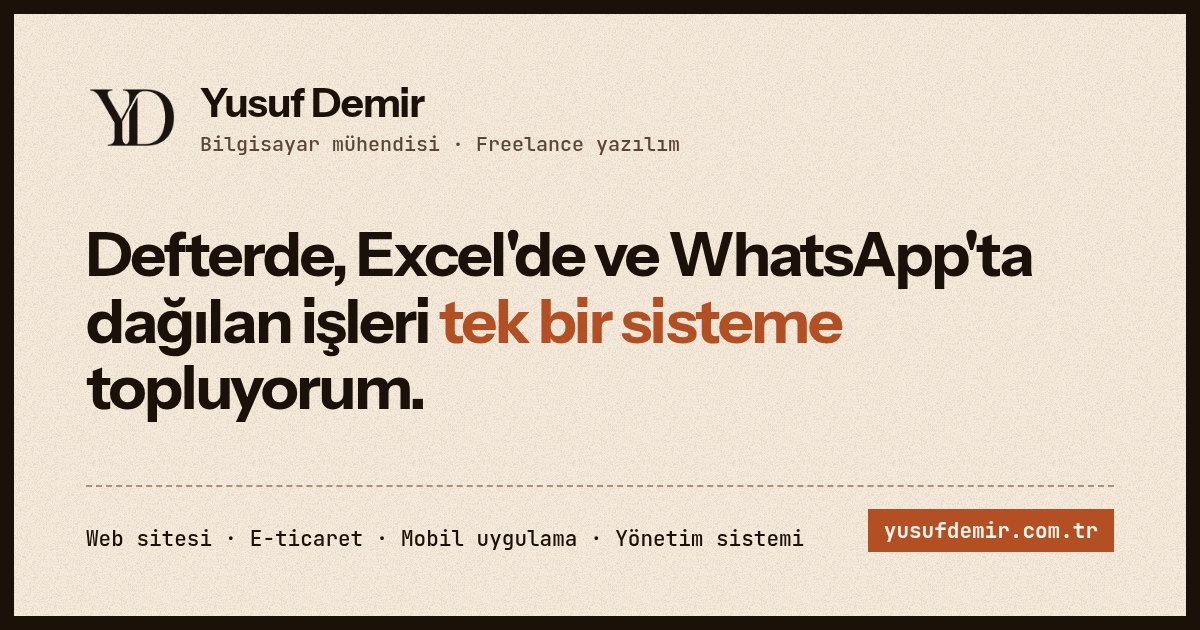
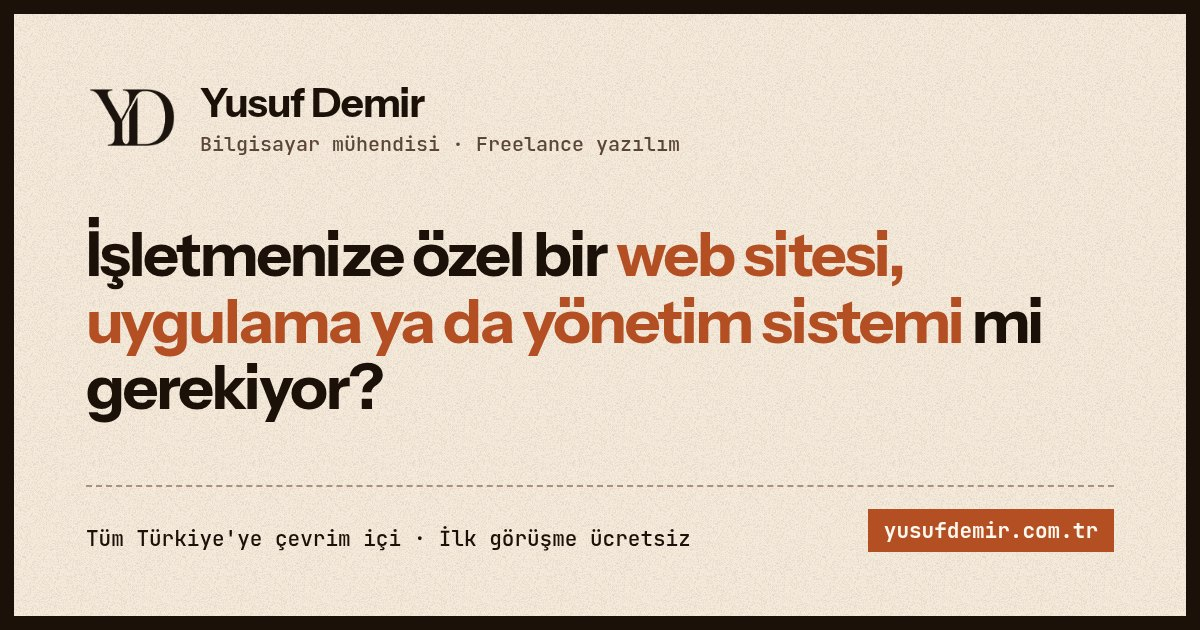
copy: ana sayfa başlığı soru biçiminde ve sektör bağımsız; paylaşım görseli yenilendi

Changed region(s): [[0.0617, 0.3317, 0.8942, 0.6937], [0.0617, 0.8444, 0.4625, 0.8746], [0.4933, 0.8444, 0.6783, 0.8746]]

diff --git a/index.html b/index.html
@@ -15,10 +15,10 @@
   <meta property="og:description" content="Freelance bilgisayar mühendisi: kurumsal web sitesi, e-ticaret, mobil uygulama ve işletmeye özel yönetim sistemi. Tüm Türkiye&#x27;ye çevrim içi hizmet." />
   <meta property="og:url" content="https://yusufdemir.com.tr/" />
   <meta property="og:site_name" content="Yusuf Demir" />
-  <meta property="og:image" content="https://yusufdemir.com.tr/assets/images/og-kapak.jpg" />
+  <meta property="og:image" content="https://yusufdemir.com.tr/assets/images/og-kapak.jpg?v=0cf6f57a" />
   <meta property="og:image:width" content="1200" />
   <meta property="og:image:height" content="630" />
-  <meta property="og:image:alt" content="Yusuf Demir: defterde, Excel'de ve WhatsApp'ta dağılan işleri tek bir sisteme topluyorum." />
+  <meta property="og:image:alt" content="Yusuf Demir: İşletmenize özel bir web sitesi, uygulama ya da yönetim sistemi mi gerekiyor?" />
   <meta name="twitter:card" content="summary_large_image" />
   <meta name="geo.region" content="TR-41" />
   <meta name="geo.placename" content="İzmit, Kocaeli" />
@@ -55,8 +55,8 @@
   <main id="icerik">
     <section class="wrap hero">
       <div>
-        <h1>Defterde, Excel'de ve WhatsApp'ta dağılan işleri <em>tek bir sisteme</em> topluyorum.</h1>
-        <p class="hero-lead">Ben Yusuf Demir, bilgisayar mühendisiyim. İşletmelerin isteklerine göre modern web siteleri, mobil uygulamalar ve işe özel yönetim sistemleri yapıyorum. Teklifi veren de, kodu yazan da, sonra destek veren de benim.</p>
+        <h1>İşletmenize özel bir <em>web sitesi, uygulama ya da yönetim sistemi</em> mi gerekiyor?</h1>
+        <p class="hero-lead">Ben Yusuf Demir, bilgisayar mühendisiyim. İhtiyacınızı birlikte netleştirir, işinize uygun ve kullanımı kolay bir çözüm geliştiririm. Planlamadan yayına, yayından sonraki desteğe kadar tek bir muhatapla çalışırsınız.</p>
         <div class="hero-ctas">
           <a href="https://wa.me/905511345360?text=Merhaba%20Yusuf%20Bey%2C%20bir%20proje%20hakk%C4%B1nda%20g%C3%B6r%C3%BC%C5%9Fmek%20istiyorum." target="_blank" rel="noopener" class="btn btn-primary">WhatsApp'tan yazın</a>
           <a href="/iletisim/" class="btn btn-secondary">Ücretsiz ön görüşme</a>

diff --git a/site-kontrolu/index.html b/site-kontrolu/index.html
@@ -15,10 +15,10 @@
   <meta property="og:description" content="Sitenizin bağlantısını gönderin; mobil görünüm, hız, çalışmayan düğmeler, SSL ve Google görünürlüğü için ücretsiz ve bağlayıcı olmayan bir değerlendirme alın." />
   <meta property="og:url" content="https://yusufdemir.com.tr/site-kontrolu/" />
   <meta property="og:site_name" content="Yusuf Demir" />
-  <meta property="og:image" content="https://yusufdemir.com.tr/assets/images/og-kapak.jpg" />
+  <meta property="og:image" content="https://yusufdemir.com.tr/assets/images/og-kapak.jpg?v=0cf6f57a" />
   <meta property="og:image:width" content="1200" />
   <meta property="og:image:height" content="630" />
-  <meta property="og:image:alt" content="Yusuf Demir: defterde, Excel'de ve WhatsApp'ta dağılan işleri tek bir sisteme topluyorum." />
+  <meta property="og:image:alt" content="Yusuf Demir: İşletmenize özel bir web sitesi, uygulama ya da yönetim sistemi mi gerekiyor?" />
   <meta name="twitter:card" content="summary_large_image" />
   <meta name="geo.region" content="TR-41" />
   <meta name="geo.placename" content="İzmit, Kocaeli" />

diff --git a/hizmetler/kurumsal-web-sitesi/index.html b/hizmetler/kurumsal-web-sitesi/index.html
@@ -15,10 +15,10 @@
   <meta property="og:description" content="İşletmenizi doğru anlatan, telefonda hızlı açılan ve Google&#x27;da bulunan kurumsal web sitesi. Tasarım, yayına alma ve Search Console kaydı dahil." />
   <meta property="og:url" content="https://yusufdemir.com.tr/hizmetler/kurumsal-web-sitesi/" />
   <meta property="og:site_name" content="Yusuf Demir" />
-  <meta property="og:image" content="https://yusufdemir.com.tr/assets/images/og-kapak.jpg" />
+  <meta property="og:image" content="https://yusufdemir.com.tr/assets/images/og-kapak.jpg?v=0cf6f57a" />
   <meta property="og:image:width" content="1200" />
   <meta property="og:image:height" content="630" />
-  <meta property="og:image:alt" content="Yusuf Demir: defterde, Excel'de ve WhatsApp'ta dağılan işleri tek bir sisteme topluyorum." />
+  <meta property="og:image:alt" content="Yusuf Demir: İşletmenize özel bir web sitesi, uygulama ya da yönetim sistemi mi gerekiyor?" />
   <meta name="twitter:card" content="summary_large_image" />
   <meta name="geo.region" content="TR-41" />
   <meta name="geo.placename" content="İzmit, Kocaeli" />

diff --git a/iletisim/index.html b/iletisim/index.html
@@ -15,10 +15,10 @@
   <meta property="og:description" content="Yusuf Demir ile 15 dakikalık ücretsiz ön görüşme. Telefon ve WhatsApp: +90 551 134 53 60. Türkiye&#x27;nin her yerine çevrim içi; Marmara&#x27;da istenirse yüz yüze." />
   <meta property="og:url" content="https://yusufdemir.com.tr/iletisim/" />
   <meta property="og:site_name" content="Yusuf Demir" />
-  <meta property="og:image" content="https://yusufdemir.com.tr/assets/images/og-kapak.jpg" />
+  <meta property="og:image" content="https://yusufdemir.com.tr/assets/images/og-kapak.jpg?v=0cf6f57a" />
   <meta property="og:image:width" content="1200" />
   <meta property="og:image:height" content="630" />
-  <meta property="og:image:alt" content="Yusuf Demir: defterde, Excel'de ve WhatsApp'ta dağılan işleri tek bir sisteme topluyorum." />
+  <meta property="og:image:alt" content="Yusuf Demir: İşletmenize özel bir web sitesi, uygulama ya da yönetim sistemi mi gerekiyor?" />
   <meta name="twitter:card" content="summary_large_image" />
   <meta name="geo.region" content="TR-41" />
   <meta name="geo.placename" content="İzmit, Kocaeli" />

diff --git a/hizmetler/index.html b/hizmetler/index.html
@@ -15,10 +15,10 @@
   <meta property="og:description" content="Kurumsal web sitesi, e-ticaret, mobil uygulama, yönetim sistemi, süreç otomasyonu ve site onarımı. Türkiye&#x27;nin her yerine çevrim içi, Marmara&#x27;da yüz yüze." />
   <meta property="og:url" content="https://yusufdemir.com.tr/hizmetler/" />
   <meta property="og:site_name" content="Yusuf Demir" />
-  <meta property="og:image" content="https://yusufdemir.com.tr/assets/images/og-kapak.jpg" />
+  <meta property="og:image" content="https://yusufdemir.com.tr/assets/images/og-kapak.jpg?v=0cf6f57a" />
   <meta property="og:image:width" content="1200" />
   <meta property="og:image:height" content="630" />
-  <meta property="og:image:alt" content="Yusuf Demir: defterde, Excel'de ve WhatsApp'ta dağılan işleri tek bir sisteme topluyorum." />
+  <meta property="og:image:alt" content="Yusuf Demir: İşletmenize özel bir web sitesi, uygulama ya da yönetim sistemi mi gerekiyor?" />
   <meta name="twitter:card" content="summary_large_image" />
   <meta name="geo.region" content="TR-41" />
   <meta name="geo.placename" content="İzmit, Kocaeli" />

diff --git a/hizmetler/e-ticaret/index.html b/hizmetler/e-ticaret/index.html
@@ -15,10 +15,10 @@
   <meta property="og:description" content="Kategori, filtre, ürün sayfası, sepet ve sipariş adımıyla işletmenize özel e-ticaret sitesi. Online ödeme ya da sipariş talebiyle çalışabilir." />
   <meta property="og:url" content="https://yusufdemir.com.tr/hizmetler/e-ticaret/" />
   <meta property="og:site_name" content="Yusuf Demir" />
-  <meta property="og:image" content="https://yusufdemir.com.tr/assets/images/og-kapak.jpg" />
+  <meta property="og:image" content="https://yusufdemir.com.tr/assets/images/og-kapak.jpg?v=0cf6f57a" />
   <meta property="og:image:width" content="1200" />
   <meta property="og:image:height" content="630" />
-  <meta property="og:image:alt" content="Yusuf Demir: defterde, Excel'de ve WhatsApp'ta dağılan işleri tek bir sisteme topluyorum." />
+  <meta property="og:image:alt" content="Yusuf Demir: İşletmenize özel bir web sitesi, uygulama ya da yönetim sistemi mi gerekiyor?" />
   <meta name="twitter:card" content="summary_large_image" />
   <meta name="geo.region" content="TR-41" />
   <meta name="geo.placename" content="İzmit, Kocaeli" />

diff --git a/sektorler/uretici-ve-imalat/index.html b/sektorler/uretici-ve-imalat/index.html
@@ -15,10 +15,10 @@
   <meta property="og:description" content="Üretici ve imalatçılar için sipariş, kapora, üretim sırası, stok ve sevkiyatı tek yerden takip eden sistem ve ürün kataloğu sitesi." />
   <meta property="og:url" content="https://yusufdemir.com.tr/sektorler/uretici-ve-imalat/" />
   <meta property="og:site_name" content="Yusuf Demir" />
-  <meta property="og:image" content="https://yusufdemir.com.tr/assets/images/og-kapak.jpg" />
+  <meta property="og:image" content="https://yusufdemir.com.tr/assets/images/og-kapak.jpg?v=0cf6f57a" />
   <meta property="og:image:width" content="1200" />
   <meta property="og:image:height" content="630" />
-  <meta property="og:image:alt" content="Yusuf Demir: defterde, Excel'de ve WhatsApp'ta dağılan işleri tek bir sisteme topluyorum." />
+  <meta property="og:image:alt" content="Yusuf Demir: İşletmenize özel bir web sitesi, uygulama ya da yönetim sistemi mi gerekiyor?" />
   <meta name="twitter:card" content="summary_large_image" />
   <meta name="geo.region" content="TR-41" />
   <meta name="geo.placename" content="İzmit, Kocaeli" />

diff --git a/sektorler/magaza-ve-markalar/index.html b/sektorler/magaza-ve-markalar/index.html
@@ -15,10 +15,10 @@
   <meta property="og:description" content="Mağazalar ve markalar için kendi e-ticaret sitesi ve App Store ile Google Play&#x27;de yayınlanan mobil alışveriş uygulaması." />
   <meta property="og:url" content="https://yusufdemir.com.tr/sektorler/magaza-ve-markalar/" />
   <meta property="og:site_name" content="Yusuf Demir" />
-  <meta property="og:image" content="https://yusufdemir.com.tr/assets/images/og-kapak.jpg" />
+  <meta property="og:image" content="https://yusufdemir.com.tr/assets/images/og-kapak.jpg?v=0cf6f57a" />
   <meta property="og:image:width" content="1200" />
   <meta property="og:image:height" content="630" />
-  <meta property="og:image:alt" content="Yusuf Demir: defterde, Excel'de ve WhatsApp'ta dağılan işleri tek bir sisteme topluyorum." />
+  <meta property="og:image:alt" content="Yusuf Demir: İşletmenize özel bir web sitesi, uygulama ya da yönetim sistemi mi gerekiyor?" />
   <meta name="twitter:card" content="summary_large_image" />
   <meta name="geo.region" content="TR-41" />
   <meta name="geo.placename" content="İzmit, Kocaeli" />

diff --git a/hizmetler/yonetim-sistemi/index.html b/hizmetler/yonetim-sistemi/index.html
@@ -15,10 +15,10 @@
   <meta property="og:description" content="Sipariş, stok, üretim, sevkiyat ve tahsilatı tek ekranda toplayan, yetkiye göre çalışan işletmeye özel ERP / CRM sistemi." />
   <meta property="og:url" content="https://yusufdemir.com.tr/hizmetler/yonetim-sistemi/" />
   <meta property="og:site_name" content="Yusuf Demir" />
-  <meta property="og:image" content="https://yusufdemir.com.tr/assets/images/og-kapak.jpg" />
+  <meta property="og:image" content="https://yusufdemir.com.tr/assets/images/og-kapak.jpg?v=0cf6f57a" />
   <meta property="og:image:width" content="1200" />
   <meta property="og:image:height" content="630" />
-  <meta property="og:image:alt" content="Yusuf Demir: defterde, Excel'de ve WhatsApp'ta dağılan işleri tek bir sisteme topluyorum." />
+  <meta property="og:image:alt" content="Yusuf Demir: İşletmenize özel bir web sitesi, uygulama ya da yönetim sistemi mi gerekiyor?" />
   <meta name="twitter:card" content="summary_large_image" />
   <meta name="geo.region" content="TR-41" />
   <meta name="geo.placename" content="İzmit, Kocaeli" />

diff --git a/cozumler/index.html b/cozumler/index.html
@@ -15,10 +15,10 @@
   <meta property="og:description" content="Telefonda yavaş açılan siteler, mobil uygulama eksikliği ve defterle Excel arasında kaybolan siparişler: üç yaygın sorun ve çözümleri." />
   <meta property="og:url" content="https://yusufdemir.com.tr/cozumler/" />
   <meta property="og:site_name" content="Yusuf Demir" />
-  <meta property="og:image" content="https://yusufdemir.com.tr/assets/images/og-kapak.jpg" />
+  <meta property="og:image" content="https://yusufdemir.com.tr/assets/images/og-kapak.jpg?v=0cf6f57a" />
   <meta property="og:image:width" content="1200" />
   <meta property="og:image:height" content="630" />
-  <meta property="og:image:alt" content="Yusuf Demir: defterde, Excel'de ve WhatsApp'ta dağılan işleri tek bir sisteme topluyorum." />
+  <meta property="og:image:alt" content="Yusuf Demir: İşletmenize özel bir web sitesi, uygulama ya da yönetim sistemi mi gerekiyor?" />
   <meta name="twitter:card" content="summary_large_image" />
   <meta name="geo.region" content="TR-41" />
   <meta name="geo.placename" content="İzmit, Kocaeli" />

diff --git a/projeler/index.html b/projeler/index.html
@@ -15,10 +15,10 @@
   <meta property="og:description" content="Kremi Beauty mobil alışveriş uygulaması, bir üreticinin imalat ve satış yönetim sistemi ve UBEI telefon aksesuarı e-ticaret sitesi." />
   <meta property="og:url" content="https://yusufdemir.com.tr/projeler/" />
   <meta property="og:site_name" content="Yusuf Demir" />
-  <meta property="og:image" content="https://yusufdemir.com.tr/assets/images/og-kapak.jpg" />
+  <meta property="og:image" content="https://yusufdemir.com.tr/assets/images/og-kapak.jpg?v=0cf6f57a" />
   <meta property="og:image:width" content="1200" />
   <meta property="og:image:height" content="630" />
-  <meta property="og:image:alt" content="Yusuf Demir: defterde, Excel'de ve WhatsApp'ta dağılan işleri tek bir sisteme topluyorum." />
+  <meta property="og:image:alt" content="Yusuf Demir: İşletmenize özel bir web sitesi, uygulama ya da yönetim sistemi mi gerekiyor?" />
   <meta name="twitter:card" content="summary_large_image" />
   <meta name="geo.region" content="TR-41" />
   <meta name="geo.placename" content="İzmit, Kocaeli" />

diff --git a/hizmetler/mobil-uygulama/index.html b/hizmetler/mobil-uygulama/index.html
@@ -15,10 +15,10 @@
   <meta property="og:description" content="Flutter ile tek kod tabanından iOS ve Android uygulaması. App Store ve Google Play başvurusu ve yayın süreci dahil." />
   <meta property="og:url" content="https://yusufdemir.com.tr/hizmetler/mobil-uygulama/" />
   <meta property="og:site_name" content="Yusuf Demir" />
-  <meta property="og:image" content="https://yusufdemir.com.tr/assets/images/og-kapak.jpg" />
+  <meta property="og:image" content="https://yusufdemir.com.tr/assets/images/og-kapak.jpg?v=0cf6f57a" />
   <meta property="og:image:width" content="1200" />
   <meta property="og:image:height" content="630" />
-  <meta property="og:image:alt" content="Yusuf Demir: defterde, Excel'de ve WhatsApp'ta dağılan işleri tek bir sisteme topluyorum." />
+  <meta property="og:image:alt" content="Yusuf Demir: İşletmenize özel bir web sitesi, uygulama ya da yönetim sistemi mi gerekiyor?" />
   <meta name="twitter:card" content="summary_large_image" />
   <meta name="geo.region" content="TR-41" />
   <meta name="geo.placename" content="İzmit, Kocaeli" />
